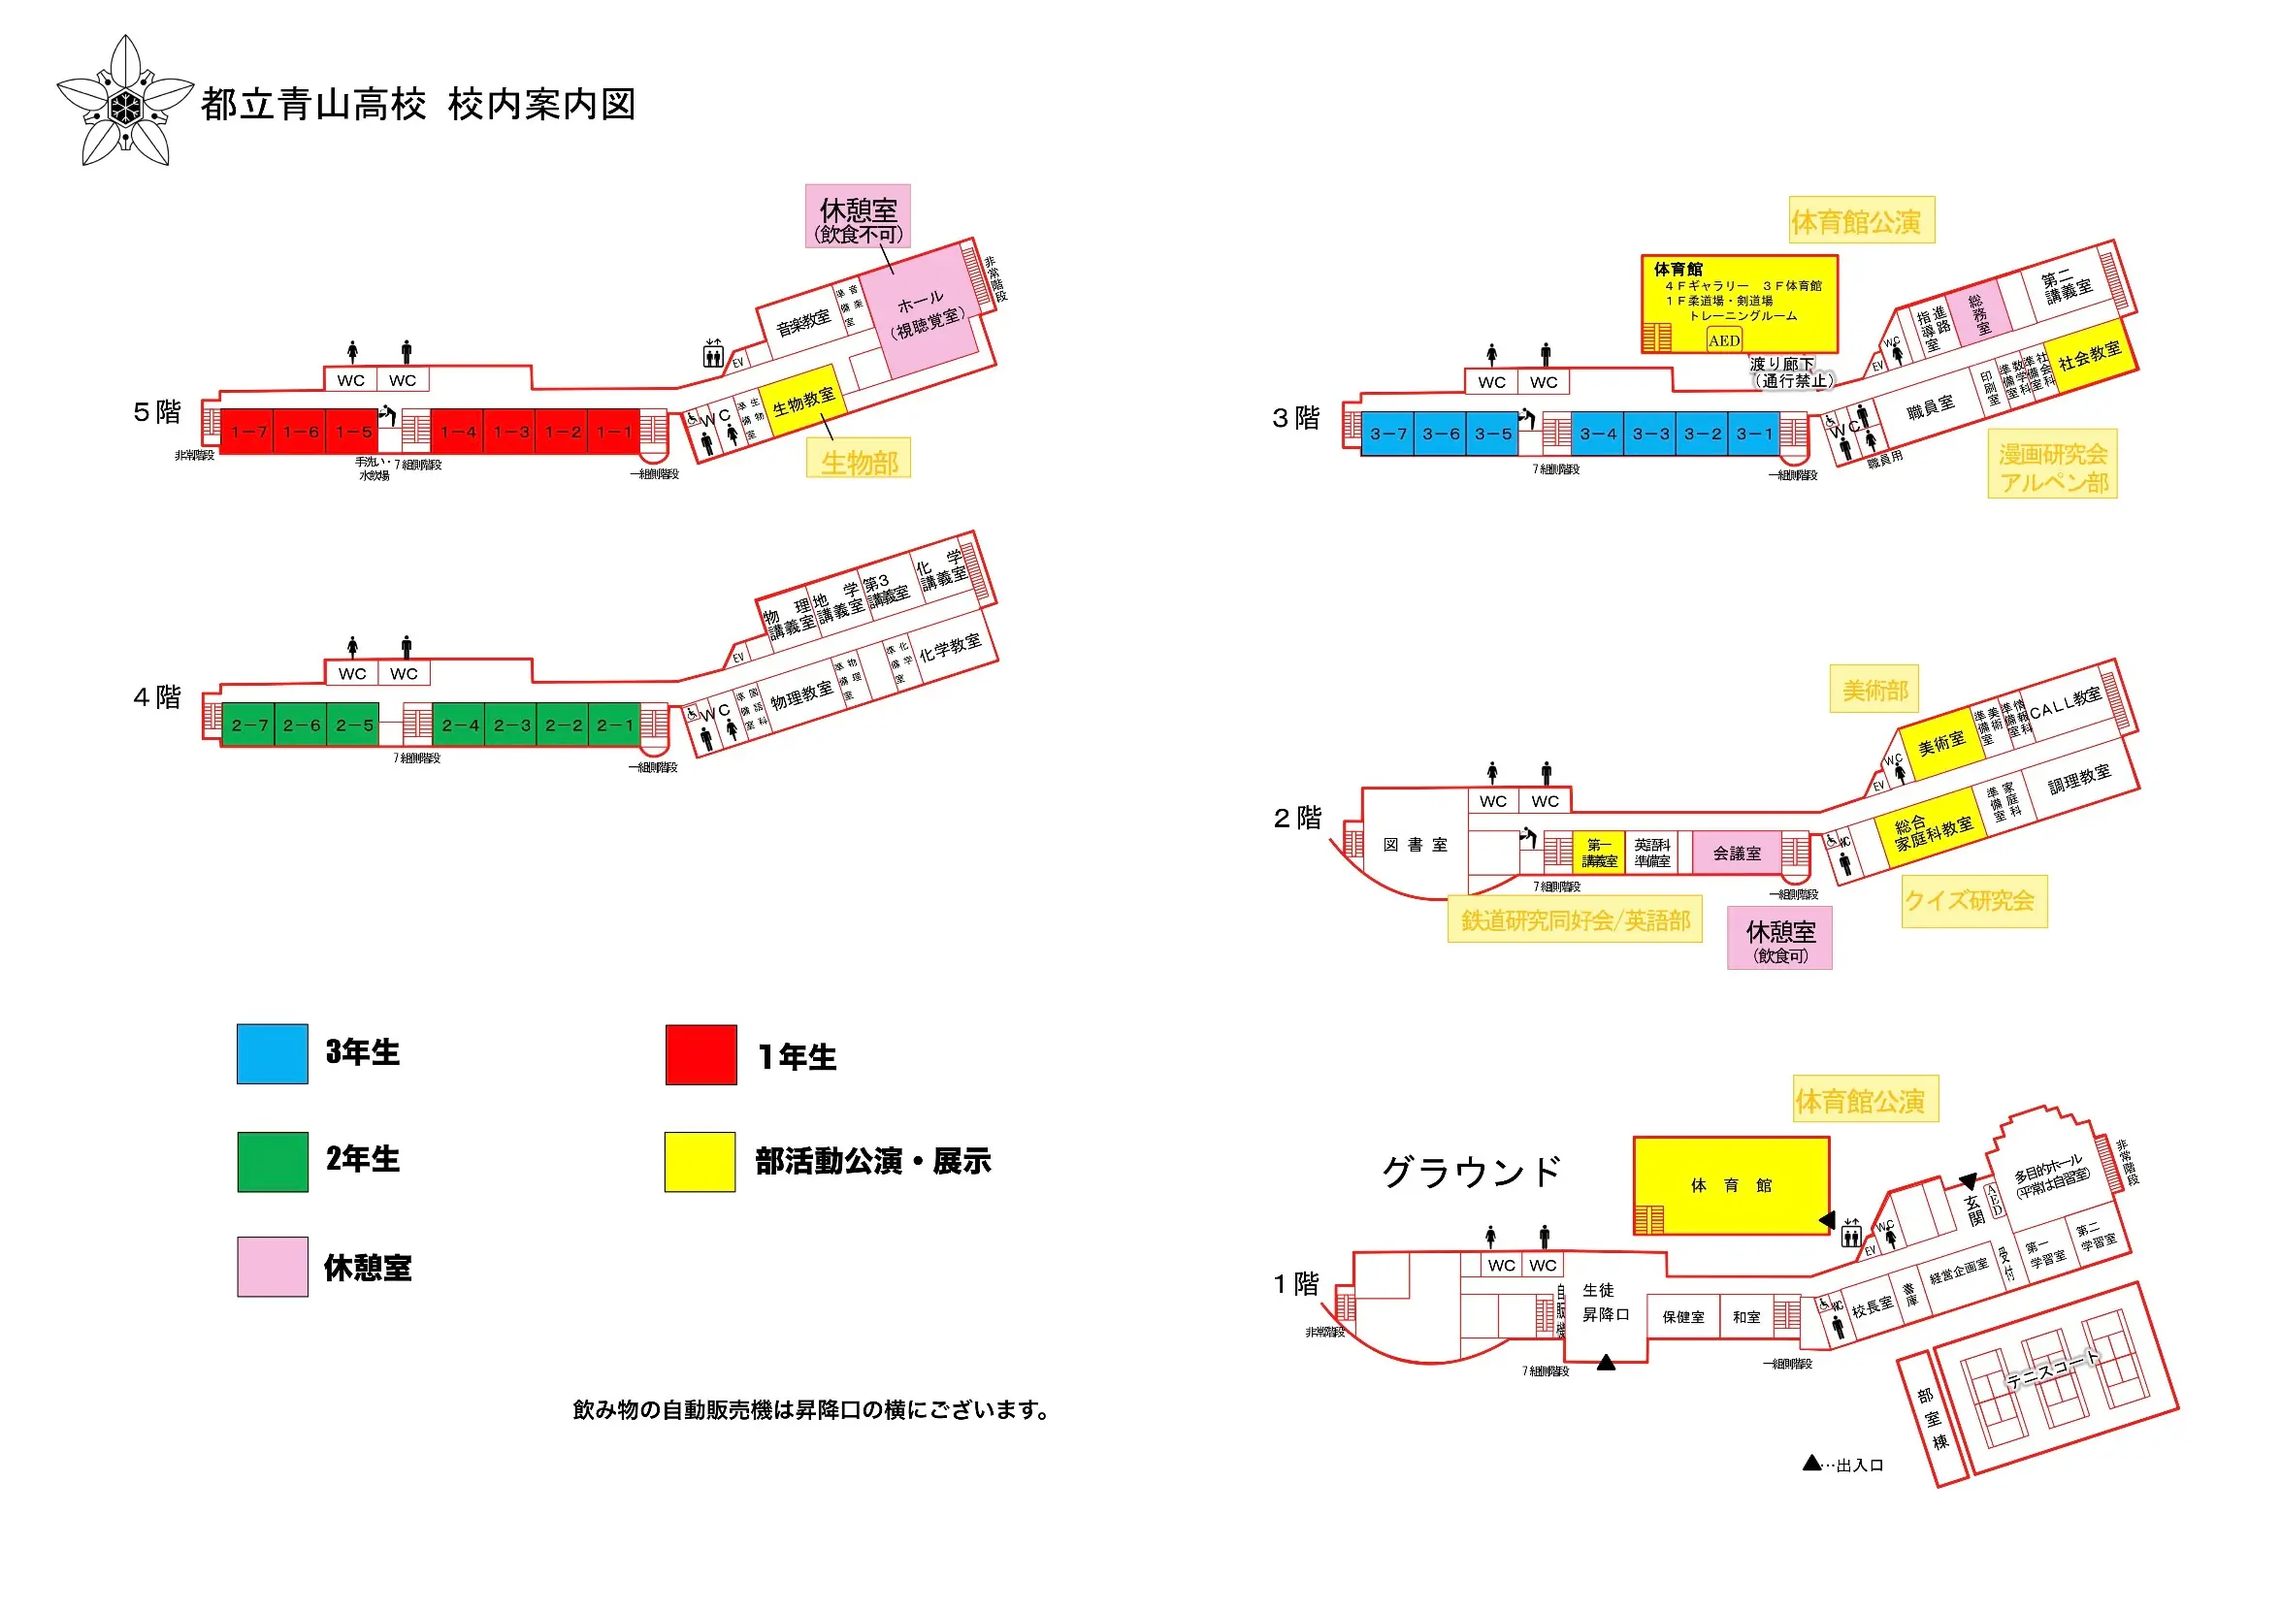
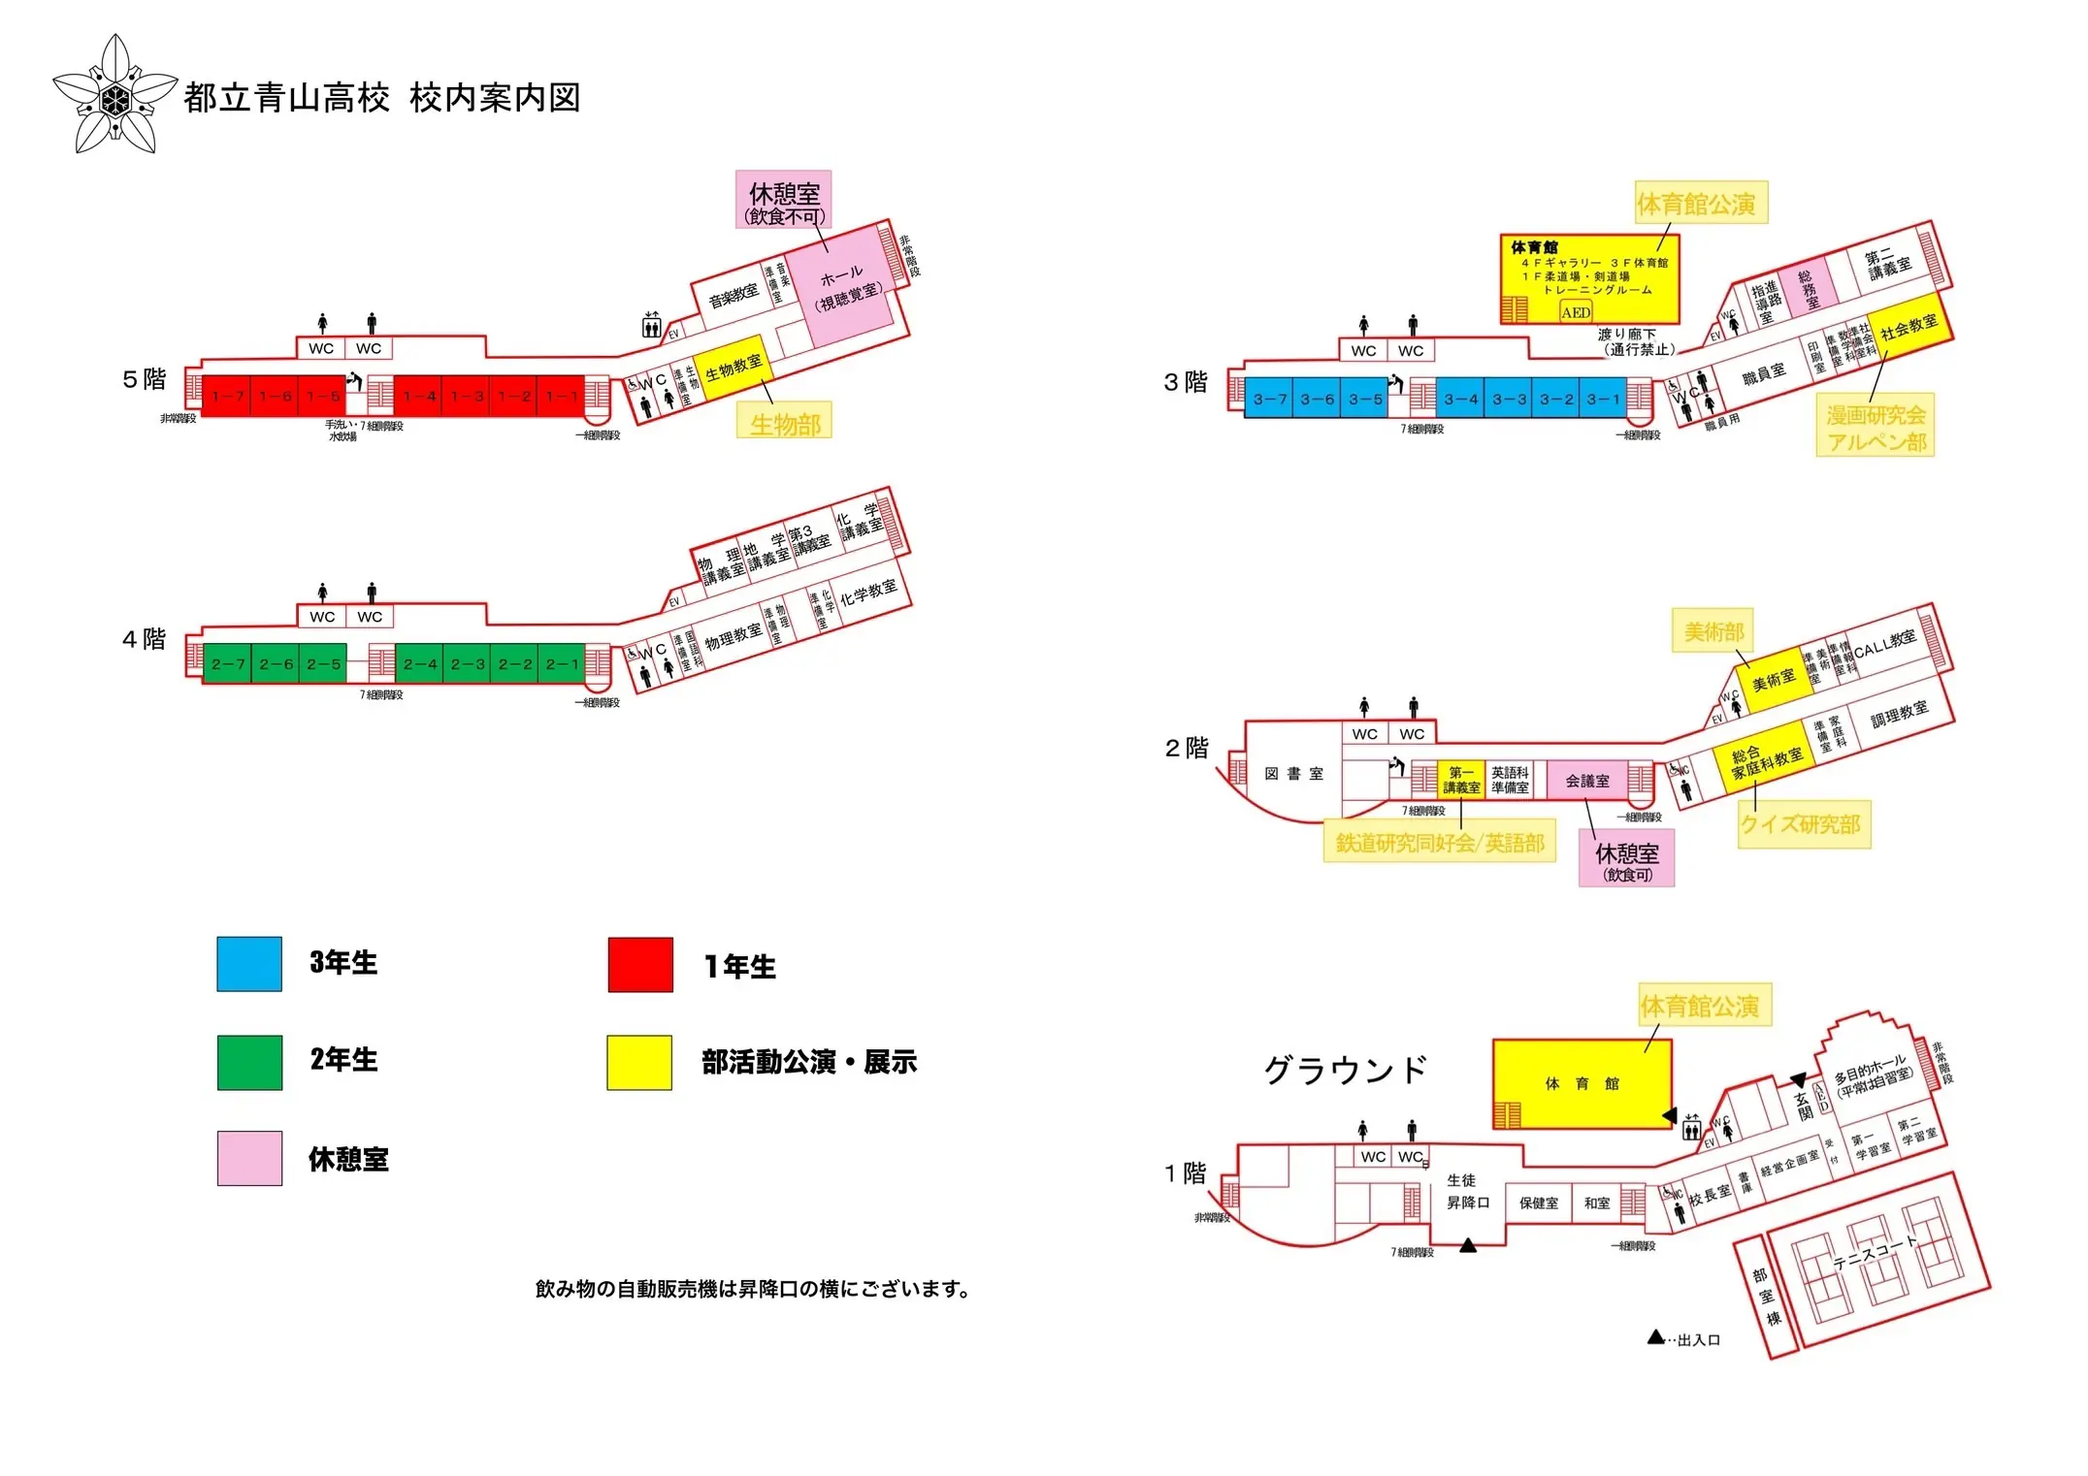
校内マップの表記の誤りを修正

diff --git a/src/pages/user/Map.tsx b/src/pages/user/Map.tsx
@@ -4,7 +4,6 @@ import mapImage from '../../assets/map.webp';
 import mapImage1 from '../../assets/map1.webp';
 import mapImage2 from '../../assets/map2.webp';
 import Modal2 from '../../components/ui/Modal2';
-import Alert from '../../components/ui/Alert';
 
 const Map = () => {
   useTitle('校内マップ');
@@ -12,15 +11,6 @@ const Map = () => {
     <>
       <Modal2 />
       <h1 className={styles.pageTitle}>校内マップ</h1>
-
-      <Alert type='info'>
-        <h3>クイズ研究部の方へ</h3>
-        <p>
-          校内マップの表示が「クイズ研究会」になっていることの修正依頼は、すでに8/3には総務に伝達しましたが、
-          依然訂正版が届いておりません。
-          ご迷惑をおかけしていますこと、お詫び申し上げます。
-        </p>
-      </Alert>
 
       <img
         src={mapImage}

diff --git a/src/pages/user/Pamphlet.tsx b/src/pages/user/Pamphlet.tsx
@@ -41,9 +41,7 @@ const Pamphlet = () => {
       <Alert type='info'>
         <h3>クイズ研究部の方へ</h3>
         <p>
-          校内マップの表示が「クイズ研究会」になっていることの修正依頼は、すでに8/3には総務に伝達しましたが、
-          依然訂正版が届かず、こちらのパンフレットも誤った表記のままであるという状況です。
-          ご迷惑をおかけしていますこと、お詫び申し上げます。
+          「クイズ研究部」が誤って「クイズ研究会」となっている件について、校内マップの方の表記は修正しましたが、パンフレットの表記の変更は間に合わないそうです。申し訳ございません。
         </p>
       </Alert>
       <section
